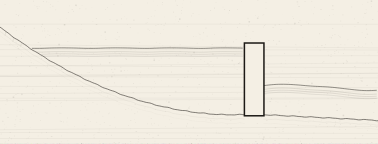
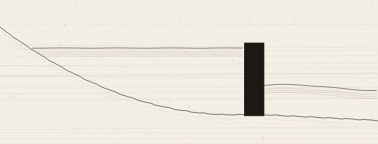
Restore sparse plan chop and drop the empty wall box (#9)
* Restore sparse plan chop and a solid sea-mode wall

Light and sheltered winds were dropping the plan to an empty fill, and the
sea-wash paper fill left a hollow rectangle where the wall should read solid.
Chop stays wind-aligned and spaced so a gale does not braid, and sea strokes
cross only above the crest.

* Add QA shots for sparse chop and a solid sea wall

The capture waits for section ink, checks the wall column is solid with
wash above the crest, and requires plan chop strokes plus the speed label.

---------

Changed region(s): [[0.6402, 0.2778, 0.6984, 0.8333]]

diff --git a/lib/plan-roughness.ts b/lib/plan-roughness.ts
@@ -2,9 +2,24 @@ import type { ChopLevel } from "./chop";
 import type { PlanPoint } from "./pool-plan";
 import { polygonArea } from "./shelter";
 
+/** Vertical gap between wind-aligned chop strokes, in plan SVG units. */
+export const PLAN_CHOP_ROW_GAP = 13;
+
 /** 0 calm wash, 1 full chop symbols for this level. */
 export function chopRoughness(level: ChopLevel): number {
   return (level - 1) / 4;
+}
+
+/**
+ * Plan roughness before the quiet patch. Under 2.5 m/s a sheltered step-down
+ * to bathwater stays blank. Above that, a light breeze still leaves sparse
+ * strokes — the cliff temper is the quiet patch, not an empty pool.
+ */
+export function planBaseRoughness(level: ChopLevel, meanMs: number): number {
+  const fromChop = chopRoughness(level);
+  const ms = Number.isFinite(meanMs) ? Math.max(0, meanMs) : 0;
+  if (ms < 2.5) return fromChop;
+  return Math.max(fromChop, 0.22);
 }
 
 function pointInPoly(point: PlanPoint, poly: PlanPoint[]): boolean {
@@ -29,8 +44,9 @@ export function roughnessAt(
   point: PlanPoint,
   chopLevel: ChopLevel,
   quiet: { whole: boolean; polygon: PlanPoint[] } | null,
+  meanMs = 0,
 ): number {
-  const base = chopRoughness(chopLevel);
+  const base = planBaseRoughness(chopLevel, meanMs);
   if (base < 0.02) return 0;
   if (!quiet) return base;
   if (quiet.whole) return base * 0.12;
@@ -38,12 +54,33 @@ export function roughnessAt(
   return base;
 }
 
-/** Plan ink strength from mean wind (m/s). Keeps calm days soft, ≥8 m/s clearly wavy. */
+/** Plan ink strength from mean wind (m/s). Calm stays soft; a gale does not pile on. */
 export function planWindRoughBoost(meanMs: number): number {
   const ms = Number.isFinite(meanMs) ? Math.max(0, meanMs) : 0;
-  if (ms < 4) return 0;
-  if (ms < 8) return (ms - 4) * 0.04;
-  return 0.16 + Math.min(0.35, (ms - 8) * 0.028);
+  if (ms < 2.5) return 0;
+  if (ms < 8) return (ms - 2.5) * 0.025;
+  return 0.14 + Math.min(0.2, (ms - 8) * 0.018);
+}
+
+/**
+ * Stroke look for one chop row. Amplitude stays under half the row gap so
+ * neighbouring waves do not braid into a moiré.
+ */
+export function planChopInk(rough: number): { opacity: number; width: number; amp: number } | null {
+  if (!(rough >= 0.08)) return null;
+  return {
+    amp: Math.min(PLAN_CHOP_ROW_GAP * 0.18, 0.7 + rough * 1.35),
+    opacity: Math.min(0.78, 0.46 + rough * 0.32),
+    width: 1.15 + Math.min(1, rough) * 0.55,
+  };
+}
+
+/** Offset of a chop-local point under SVG `rotate(travelDeg)` (y grows downward). */
+export function chopLocalToScreen(lx: number, ly: number, travelDeg: number): { x: number; y: number } {
+  const rad = (travelDeg * Math.PI) / 180;
+  const cos = Math.cos(rad);
+  const sin = Math.sin(rad);
+  return { x: lx * cos - ly * sin, y: lx * sin + ly * cos };
 }
 
 export function waveScanline(

diff --git a/components/section-canvas.tsx b/components/section-canvas.tsx
@@ -11,6 +11,7 @@ import {
   heldRipple,
   heldSurface,
   resolveSection,
+  seaWashClearsWall,
   surfaceRipple,
   swellOffset,
   waterlineU,
@@ -70,7 +71,7 @@ function drawRuns(
     const uu = Math.min(u, u1);
     const y = yAt(uu);
     const floor = yOf(chalkSchematic(uu) + chalkJitter(uu));
-    if (y >= floor - 0.6) {
+    if (!Number.isFinite(y) || y >= floor - 0.6) {
       flush();
       continue;
     }
@@ -183,16 +184,11 @@ function paint(
   const wallY = yOf(1);
   const wallH = yOf(-0.015) - wallY;
 
-  /** Sea wash: schematic surface never dips through the wall body — only at/above crest. */
-  const crestSurface = (u: number) => Math.max(1, surface(u));
   const ySurface = (u: number) => yOf(surface(u));
-  const yCrestWash = (u: number) => yOf(crestSurface(u));
 
-  const band = (u0: number, u1: number, crestOnly = false) => {
+  const band = (u0: number, u1: number) => {
     if (u1 - u0 < 0.08) return;
-    const yAt = crestOnly ? yCrestWash : ySurface;
-    drawRuns(ctx, u0, u1, yAt, crestOnly ? 1.35 : 1.55, crestOnly ? 0.9 : 0.92);
-    if (crestOnly) return;
+    drawRuns(ctx, u0, u1, ySurface, 1.55, 0.92);
     for (let i = 1; i <= motion.lines; i++) {
       const depth = 5 + i * (6 + section.chopLevel * 0.6);
       const alpha = Math.max(0.1, 0.48 - i * 0.05);
@@ -200,9 +196,21 @@ function paint(
     }
   };
 
+  /** Strokes over the crest only. Anything at or below the crest would cut the wall. */
+  const washOverCrest = (u0: number, u1: number) => {
+    if (u1 - u0 < 0.08) return;
+    const yIfClear = (depth: number) => (u: number) =>
+      seaWashClearsWall(surface(u), depth, PX) ? ySurface(u) + depth : Number.NaN;
+    drawRuns(ctx, u0, u1, yIfClear(0), 1.45, 0.94);
+    for (let i = 1; i <= motion.lines; i++) {
+      const depth = 5 + i * (6 + section.chopLevel * 0.6);
+      const alpha = Math.max(0.12, 0.5 - i * 0.045);
+      drawRuns(ctx, u0, u1, yIfClear(depth), 0.85, alpha);
+    }
+  };
+
   band(Math.min(shore, WALL_U0), WALL_U0);
   band(WALL_U1, RATIO_SUM);
-  if (section.mode === "sea") band(WALL_U0, WALL_U1, true);
 
   stroke(ctx, chalkPoints(0, WALL_U0, 0), 1.75, 0.95);
   stroke(ctx, chalkPoints(WALL_U1, RATIO_SUM, 0), 1.75, 0.95);
@@ -246,17 +254,15 @@ function paint(
     ctx.globalAlpha = 1;
   }
 
-  ctx.fillStyle = PAPER;
+  ctx.fillStyle = INK;
   ctx.globalAlpha = 1;
   ctx.fillRect(wallX, wallY, wallW, wallH);
   ctx.strokeStyle = INK;
-  ctx.lineWidth = 4.6;
+  ctx.lineWidth = 2.2;
   ctx.lineJoin = "miter";
   ctx.strokeRect(wallX, wallY, wallW, wallH);
 
-  if (section.mode === "sea") {
-    drawRuns(ctx, WALL_U0, WALL_U1, yCrestWash, 1.4, 0.94);
-  }
+  if (section.mode === "sea") washOverCrest(WALL_U0, WALL_U1);
 }
 
 export function SectionCanvas({

diff --git a/components/plan-view.tsx b/components/plan-view.tsx
@@ -4,7 +4,15 @@ import { useEffect, useMemo, useState } from "react";
 import type { ChopLevel } from "@/lib/chop";
 import { downwindDegrees } from "@/lib/compass";
 import type { WindFrame } from "@/lib/glance-at";
-import { chopRoughness, planWindRoughBoost, roughnessAt, waveScanline } from "@/lib/plan-roughness";
+import {
+  PLAN_CHOP_ROW_GAP,
+  chopLocalToScreen,
+  chopRoughness,
+  planChopInk,
+  planWindRoughBoost,
+  roughnessAt,
+  waveScanline,
+} from "@/lib/plan-roughness";
 import {
   planLayout,
   planProject,
@@ -134,9 +142,9 @@ function localToPlan(
   travelDeg: number,
   layout: ReturnType<typeof planLayout>,
 ): PlanPoint {
-  const rad = (travelDeg * Math.PI) / 180;
-  const sx = mid.x + lx * Math.cos(rad) + ly * Math.sin(rad);
-  const sy = mid.y - lx * Math.sin(rad) + ly * Math.cos(rad);
+  const screen = chopLocalToScreen(lx, ly, travelDeg);
+  const sx = mid.x + screen.x;
+  const sy = mid.y + screen.y;
   return {
     x: (sx - layout.originX) / layout.scale,
     y: (layout.originY - sy) / layout.scale,
@@ -180,27 +188,21 @@ function RoughnessField({
       Math.hypot(se.x - mid.x, se.y - mid.y),
       Math.hypot(sw.x - mid.x, sw.y - mid.y),
     );
-    const half = reach * 2.1;
-    const stepY = 7;
-    const stepX = 9;
+    const half = reach * 1.15;
+    const stepY = PLAN_CHOP_ROW_GAP;
+    const stepX = 11;
 
     for (let ly = -half; ly <= half; ly += stepY) {
       let rough = 0;
       for (let lx = -half; lx <= half; lx += stepX) {
-        const sample = roughnessAt(localToPlan(lx, ly, mid, travel, layout), chopLevel, quietForRough);
+        const sample = roughnessAt(localToPlan(lx, ly, mid, travel, layout), chopLevel, quietForRough, meanMs ?? 0);
         rough = Math.max(rough, sample + windBoost * (1 - sample * 0.35));
       }
-      if (rough < 0.08) continue;
-      const amp = (0.55 + rough * 2.2) * (1 + windBoost * 0.35);
+      const ink = planChopInk(rough);
+      if (!ink) continue;
       const drift = phase + ly * 0.04;
-      const d = waveScanline(-half, half, ly, amp, drift, 5 + rough * 1.5);
-      if (d) {
-        rows.push({
-          d,
-          opacity: Math.min(0.52, 0.14 + rough * 0.38),
-          width: 0.55 + rough * 0.45,
-        });
-      }
+      const d = waveScanline(-half, half, ly, ink.amp, drift, 6);
+      if (d) rows.push({ d, opacity: ink.opacity, width: ink.width });
     }
 
     return rows;

diff --git a/lib/plan-roughness.test.ts b/lib/plan-roughness.test.ts
@@ -1,0 +1,36 @@
+import assert from "node:assert/strict";
+import test from "node:test";
+import { PLAN_CHOP_ROW_GAP, chopLocalToScreen, planChopInk, roughnessAt } from "./plan-roughness.ts";
+
+test("a light breeze still inks sparse chop, including a sheltered step-down", () => {
+  const open = roughnessAt({ x: 0, y: -40 }, 2, null, 3.2);
+  const sheltered = roughnessAt({ x: 0, y: -40 }, 1, null, 3.2);
+  assert.ok(open >= 0.22);
+  assert.ok(sheltered >= 0.22);
+  const ink = planChopInk(sheltered);
+  assert.ok(ink);
+  assert.ok(ink.opacity >= 0.45);
+  assert.ok(ink.width >= 1.1);
+});
+
+test("bathwater under a calm wind leaves the plan clear", () => {
+  assert.equal(roughnessAt({ x: 0, y: -20 }, 1, null, 1.2), 0);
+  assert.equal(planChopInk(0), null);
+});
+
+test("chop amplitude stays under the row gap so strokes do not braid", () => {
+  for (const rough of [0.22, 0.5, 0.75, 1, 1.4]) {
+    const ink = planChopInk(rough);
+    assert.ok(ink);
+    assert.ok(ink.amp * 2 < PLAN_CHOP_ROW_GAP, `amp ${ink.amp} at rough ${rough}`);
+  }
+});
+
+test("chop-local rotation matches the plan SVG rotate", () => {
+  const north = chopLocalToScreen(0, -10, 0);
+  assert.ok(Math.abs(north.x) < 1e-9);
+  assert.ok(north.y < -9);
+  const east = chopLocalToScreen(0, -10, 90);
+  assert.ok(east.x > 9);
+  assert.ok(Math.abs(east.y) < 1e-6);
+});

diff --git a/lib/section-scene.ts b/lib/section-scene.ts
@@ -183,6 +183,16 @@ export function heldRipple(u: number, timeS: number, level: ChopLevel, amp: numb
 /** Ink cap for held water. Crest of the wall is 1. */
 export const HELD_SURFACE_CAP = 0.972;
 
+/**
+ * Sea wash may cross above the crest. A stroke at or below the crest would
+ * cut the wall body, so it is left out. `depthPx` is the downward offset
+ * of a secondary line; `pxPerUnit` is the section's vertical scale.
+ */
+export function seaWashClearsWall(surfaceSchematic: number, depthPx: number, pxPerUnit: number): boolean {
+  if (!(pxPerUnit > 0) || !Number.isFinite(surfaceSchematic) || !Number.isFinite(depthPx)) return false;
+  return surfaceSchematic - depthPx / pxPerUnit > 1.008;
+}
+
 export function heldSurface(still: number, ripple: number): number {
   return Math.min(HELD_SURFACE_CAP, still + ripple);
 }

diff --git a/lib/section-scene.test.ts b/lib/section-scene.test.ts
@@ -14,6 +14,7 @@ import {
   heldSurfaceAmp,
   overtopStrength,
   resolveSection,
+  seaWashClearsWall,
   segmentEdges,
   swellMetres,
   waterlineU,
@@ -164,6 +165,15 @@ test("pool level stays under the crest and rises on an overflow pulse", () => {
   assert.ok(high > low);
   assert.ok(sawSheet);
   assert.ok(sawGap);
+});
+
+test("sea wash crosses above the crest and stops at the wall body", () => {
+  const px = 220;
+  assert.equal(seaWashClearsWall(1.12, 0, px), true);
+  assert.equal(seaWashClearsWall(1.38, 30, px), true);
+  assert.equal(seaWashClearsWall(1.12, 40, px), false);
+  assert.equal(seaWashClearsWall(0.96, 0, px), false);
+  assert.equal(seaWashClearsWall(1.12, 0, 0), false);
 });
 
 test("chop lines get denser, faster, and looser together", () => {
